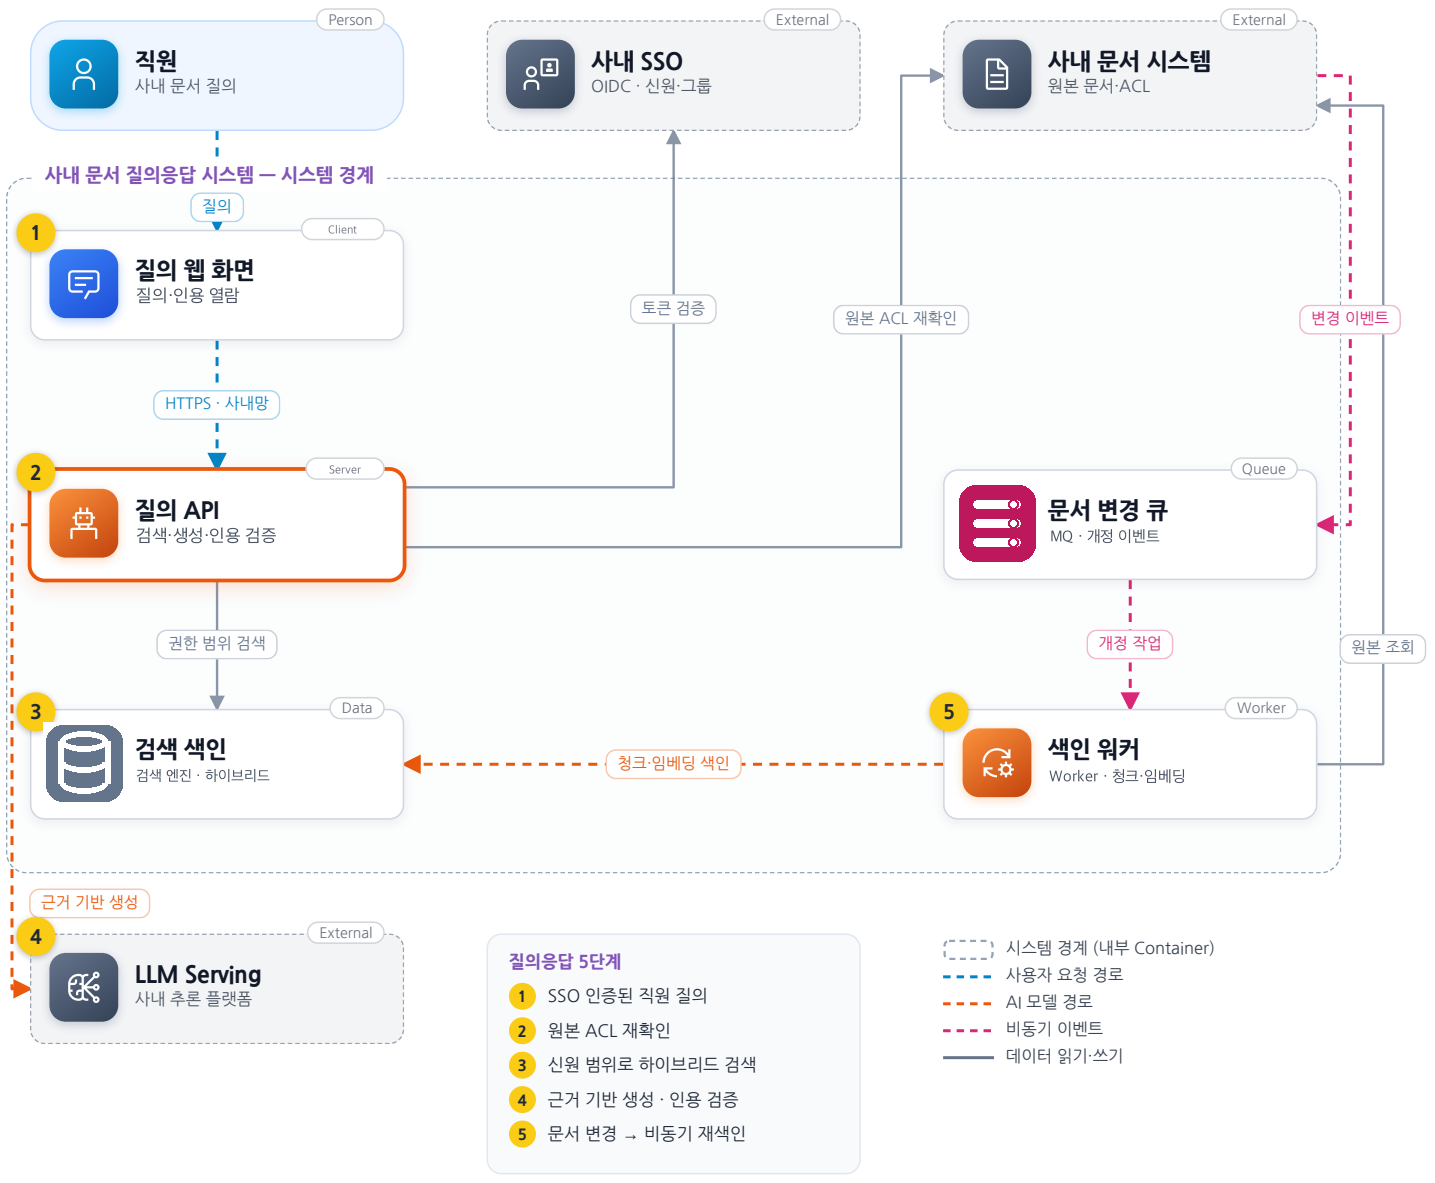
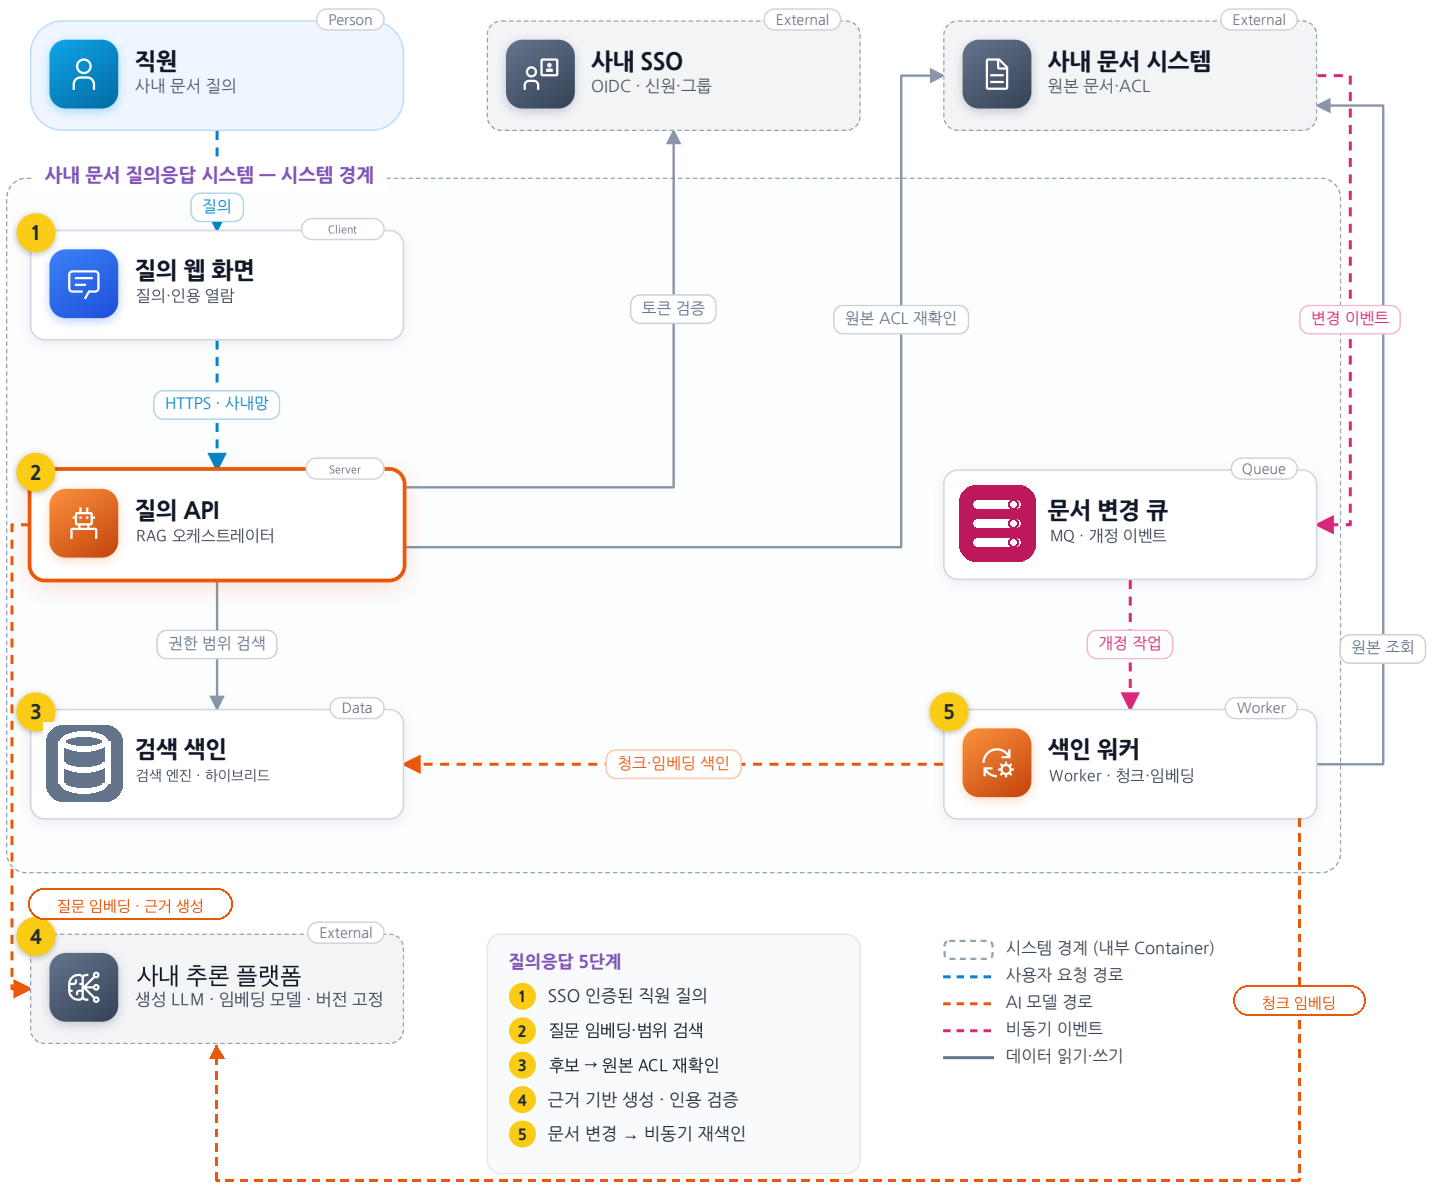
12장: 임베딩 모델·임베딩 버전 고정·ACL 일괄 조회 전제 추가, 단계 순서 수정
- 사내 추론 플랫폼이 생성 LLM과 임베딩 모델을 함께 제공, 색인 워커 → 플랫폼 임베딩 호출 선 추가
- 조각 키에 임베딩 버전 포함, 모델 교체는 전체 재색인 후 포인터 전환(흐름 8, 검증 8~11)
- 질의 API를 RAG 오케스트레이터로 명시, ACL 일괄 조회 부하·fail-closed 전제 기록
- 도식 단계 2·3 순서를 README(검색 → ACL 재확인)와 일치시킴
- GIF: 선에 닿은 라벨도 하이라이트(9·13·14장 포함 재생성)

diff --git a/README.md b/README.md
@@ -17,7 +17,7 @@
 | [09](<./09_여러 판매 채널의 재고 동기화 시스템/README.md>) | 고급 | 여러 판매 채널의 재고 동기화 시스템 | SKU 100만 개 · 채널 5개 · 피크 주문 5,000건/초 | 중앙 재고 = 유일 권한 · Outbox · 채널 회수 확인 후 재배분 |
 | [10](<./10_광고 성과·기여도 분석 시스템/README.md>) | 고급 | 광고 성과·기여도 분석 시스템 | 일 10억 이벤트 · 보고 목표 5분 | 스트림 잠정치 + 배치 정정 · 보고 버전 전환 · 동의 범위 귀속 |
 | [11](<./11_LLM Serving 추론 플랫폼/README.md>) | 고급 | LLM Serving 추론 플랫폼 | 피크 20 RPS · 첫 토큰 p95 1.5초 목표 | 추론 게이트웨이 · 테넌트 한도 · 유한 큐 · 가중 최소 부하 라우팅 · 연속 배치·KV 예약 · 버전 묶음 배포 |
-| [12](<./12_AI Service 사내 문서 질의응답/README.md>) | 고급 | AI Service 사내 문서 질의응답 | 직원 5천 명 · 문서 20만 개 · 피크 30 RPS | 권한 범위 검색 · 원본 ACL 재확인 · 근거 인용 · 비동기 색인 |
+| [12](<./12_AI Service 사내 문서 질의응답/README.md>) | 고급 | AI Service 사내 문서 질의응답 | 직원 5천 명 · 문서 20만 개 · 피크 30 RPS | 권한 범위 검색 · 원본 ACL 재확인 · 근거 인용 · 임베딩 버전 고정 · 비동기 색인 |
 | [13](<./13_AIOps 장애 탐지와 대응/README.md>) | 고급 | AIOps 장애 탐지와 대응 | 서비스 120개 · 로그 피크 2만 건/초 | 핵심 경보는 AI 우회 · 보조 분석 · 사람 승인 후 조치 |
 | [14](<./14_MLOps 모델 학습·배포 파이프라인/README.md>) | 고급 | MLOps 모델 학습·배포 파이프라인 | 일 학습 데이터 2천만 행 · 예측 피크 2천 RPS | 시점 고정 학습 · 해시 등록 · 그림자→카나리 · 라벨 성숙 후 평가 |
 
